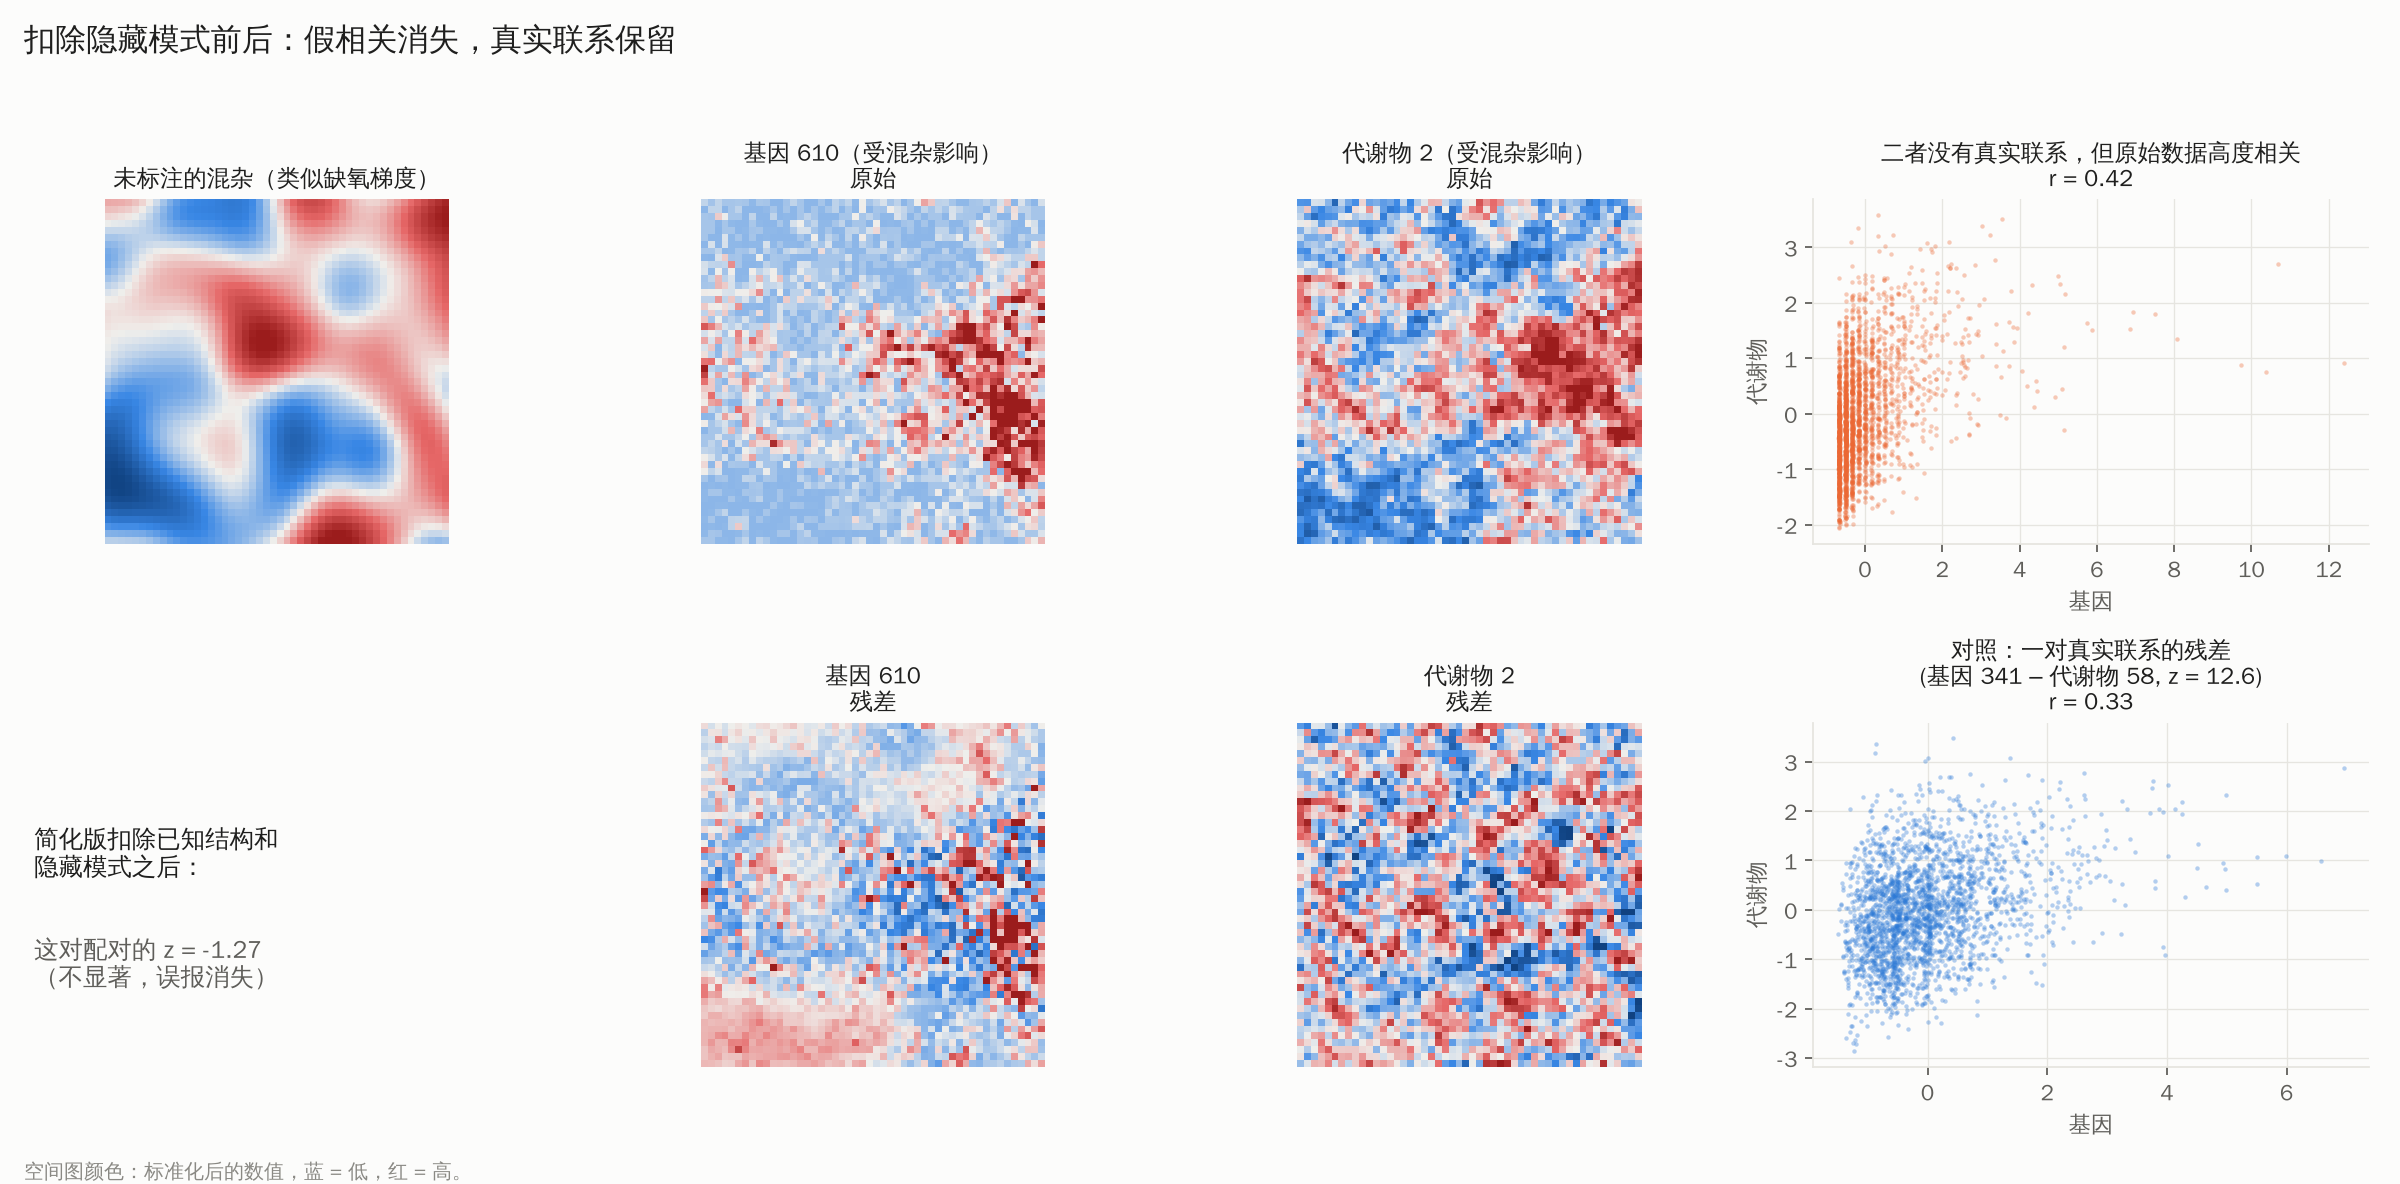
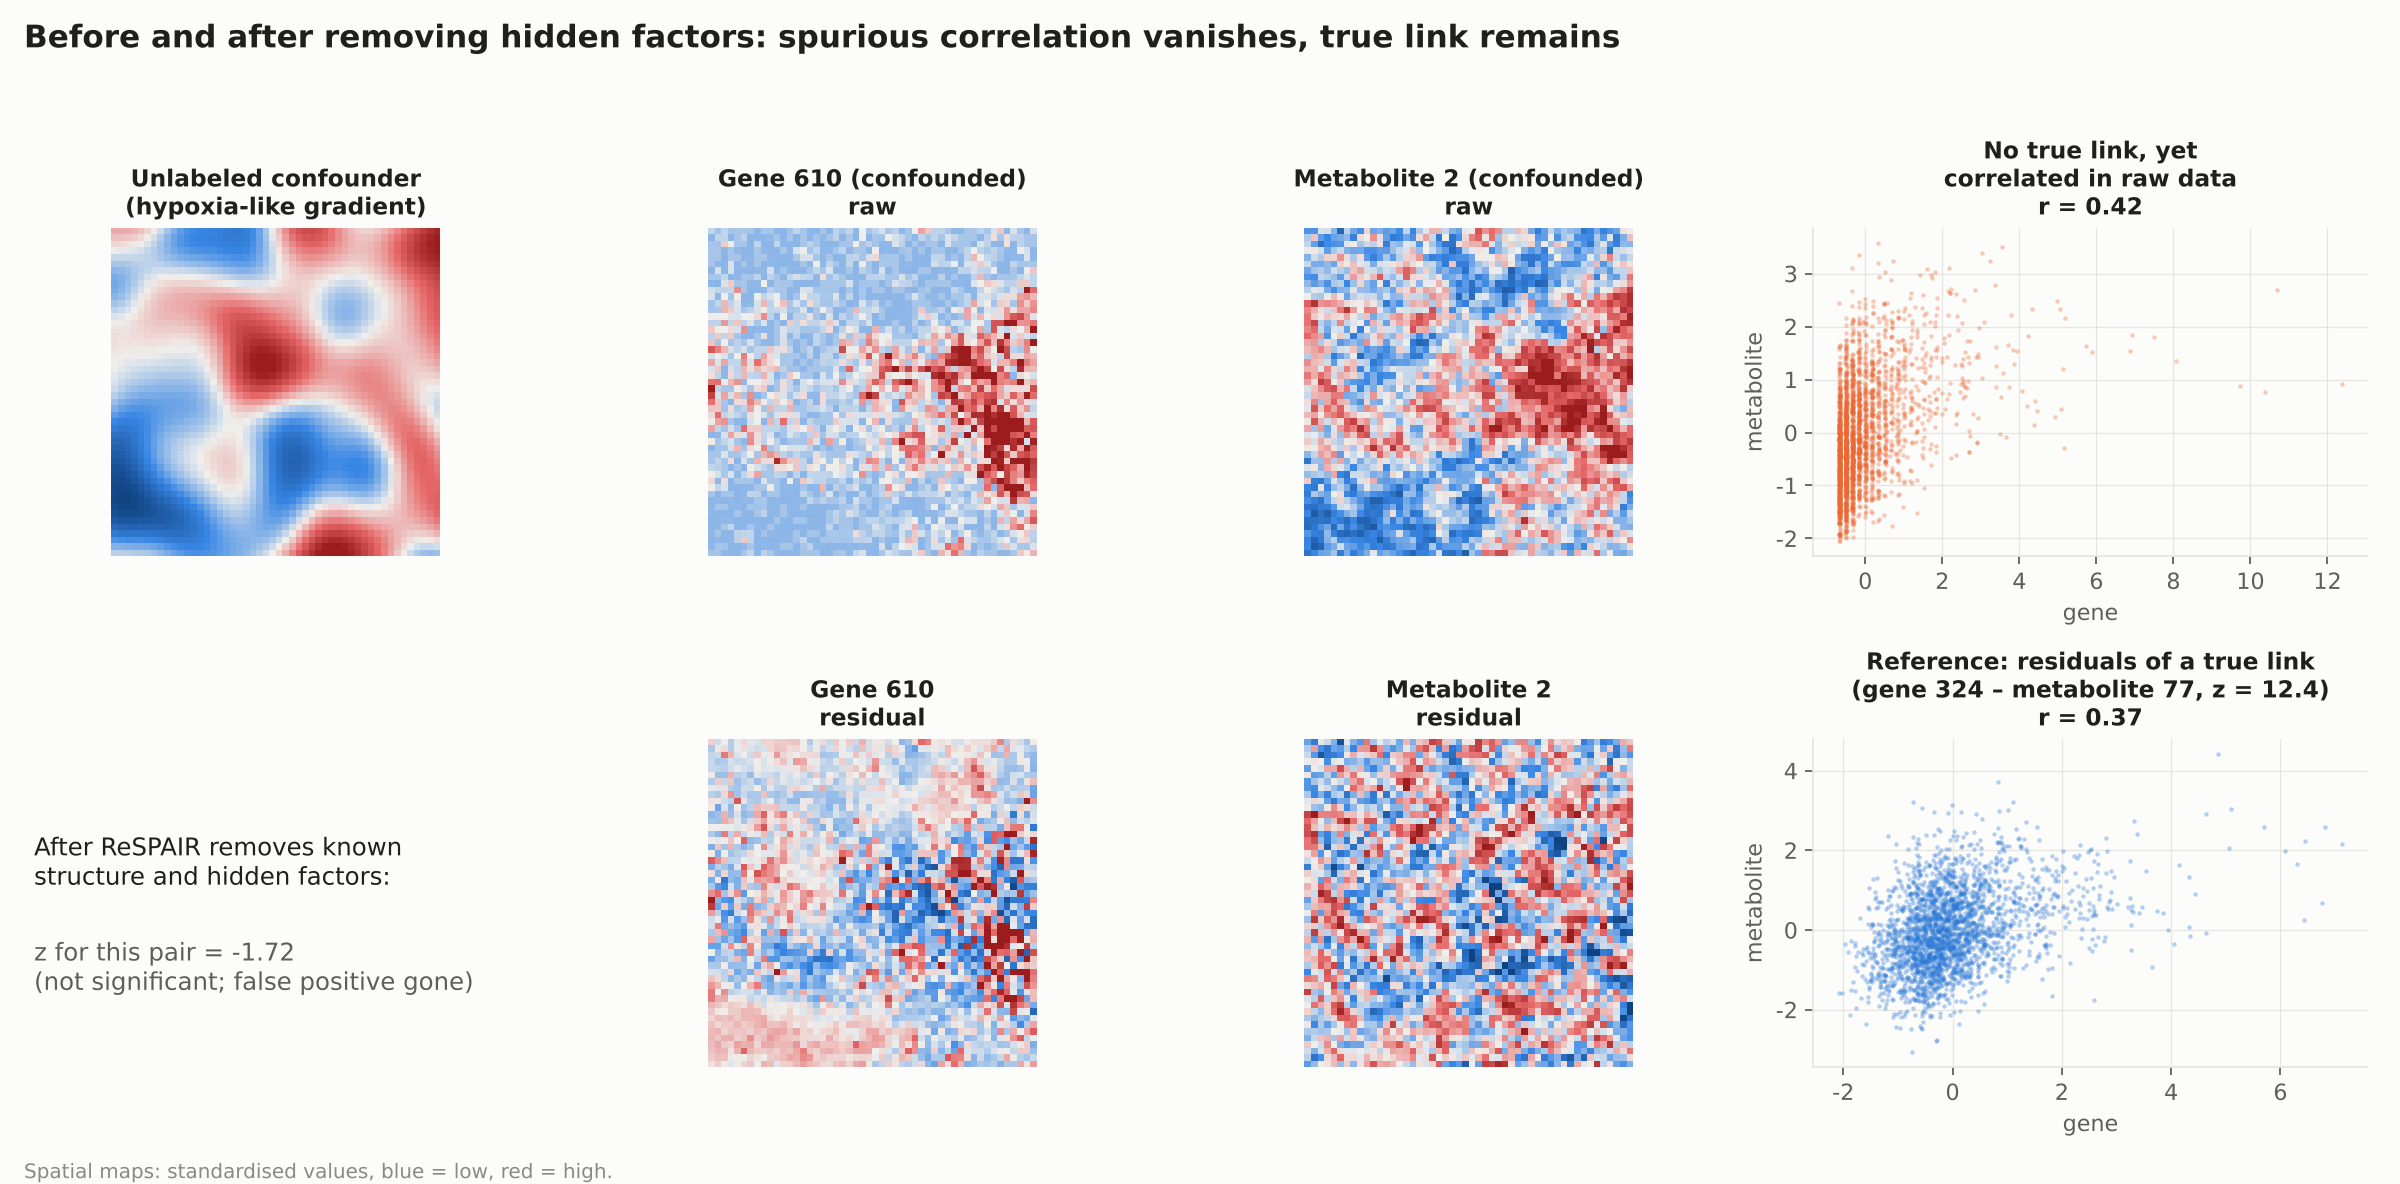
Regenerate figures with English labels; refresh sim_5seeds.json with current K selection
Claude-Session: https://claude.ai/code/session_017JuoMi6269y8htYyUYFhuX

diff --git a/benchmarks/scripts/plot_sim.py b/benchmarks/scripts/plot_sim.py
@@ -59,10 +59,10 @@ def fig1(d, fit, Yg, Ym):
     tj, tk = np.argwhere(d["truth"])[np.argmax(np.abs(fit["z"][d["truth"]]))]
 
     fig, axes = plt.subplots(2, 4, figsize=(15, 7.4), gridspec_kw={"width_ratios": [1, 1, 1, 1.1]})
-    spatial(axes[0, 0], d["H"], side, "Unlabeled confounder (hypoxia-like gradient)")
+    spatial(axes[0, 0], d["H"], side, "Unlabeled confounder\n(hypoxia-like gradient)")
     spatial(axes[0, 1], Yg[:, j], side, f"Gene {j} (confounded)\nraw")
     spatial(axes[0, 2], Ym[:, k], side, f"Metabolite {k} (confounded)\nraw")
-    scatter(axes[0, 3], Yg[:, j], Ym[:, k], "No true link, yet strongly correlated in raw data", SERIES[1])
+    scatter(axes[0, 3], Yg[:, j], Ym[:, k], "No true link, yet\ncorrelated in raw data", SERIES[1])
 
     zjk = fit["z"][j, k]
     axes[1, 0].axis("off")
@@ -119,8 +119,8 @@ def fig2():
     axes[0].set_title("False-positive rate (p < 0.05, dashed = 5%)", loc="left")
     axes[0].set_xlim(0, 105)
     axes[0].legend(frameon=False, loc="lower right")
-    for ax, key, ref, title in [(axes[1], "BH empirical FDR", 10, "Empirical FDR after BH(0.1) (dashed = 10%)"),
-                                (axes[2], "BH power", None, "Power for true links after BH(0.1)")]:
+    for ax, key, ref, title in [(axes[1], "BH empirical FDR", 10, "Empirical FDR, BH(0.1)\n(dashed = 10%)"),
+                                (axes[2], "BH power", None, "Power for true links,\nBH(0.1)")]:
         v = np.array([avg[m][key] for m in methods]) * 100
         e = np.array([sd[m][key] for m in methods]) * 100
         ax.barh(y, v, height=0.55, color=SERIES[0], xerr=e, error_kw={"ecolor": INK2, "lw": 1, "capsize": 0})

diff --git a/CHANGELOG.md b/CHANGELOG.md
@@ -7,7 +7,8 @@ All notable changes to this project are documented here. The format follows
 
 ### Changed
 - Repository reorganised into a `src/` layout with `hatchling` packaging, tests, CI and Sphinx docs.
-- Simulation and benchmark scripts moved to `benchmarks/`.
+- Simulation and benchmark scripts moved to `benchmarks/`; all text, result keys and figures are in English.
+- `benchmarks/results/sim_5seeds.json` regenerated with the current spectrum-based choice of K (was K = 4).
 
 ## [0.1.0]
 
